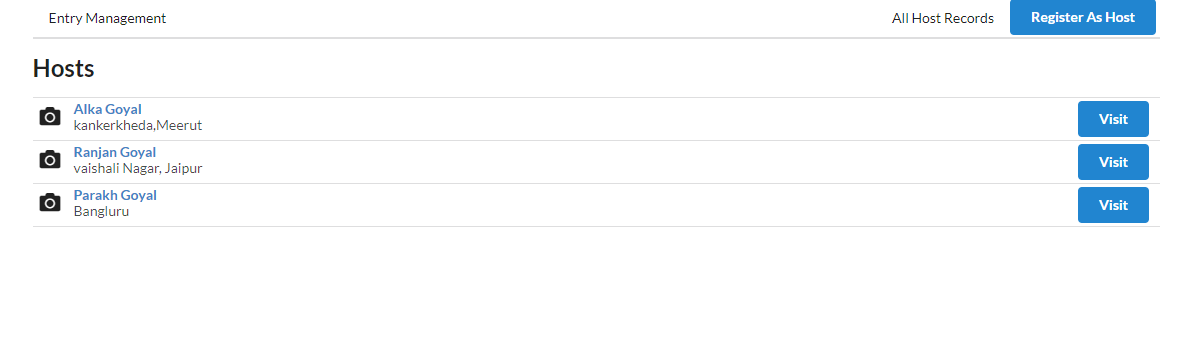
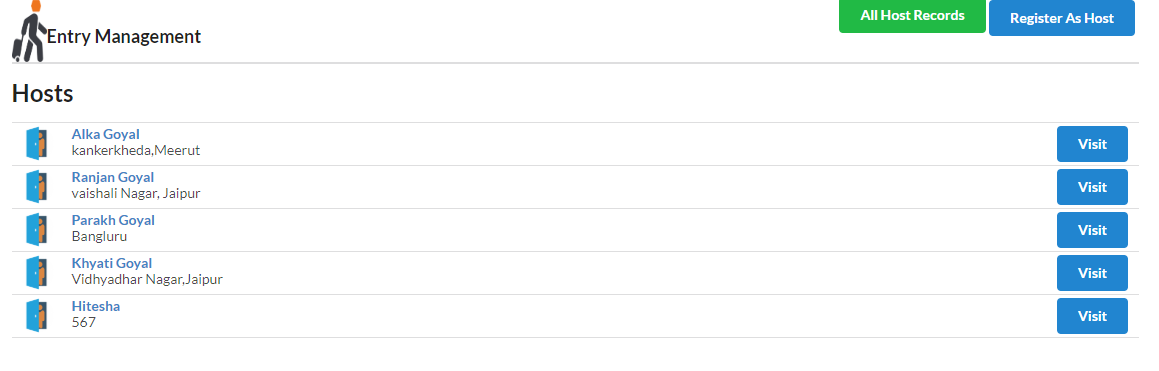
final project

diff --git a/entry-management/client/src/components/streams/VisitorDelete.js b/entry-management/client/src/components/streams/VisitorDelete.js
@@ -2,18 +2,47 @@ import React from 'react';
 import Modal from '../Modal';
 import { connect } from 'react-redux';
 import { Link } from 'react-router-dom';
-import { fetchVisitor, deleteVisitor } from '../../actions';
+import { fetchHost, fetchVisitor } from '../../actions';
 import history from '../../history';
 
 class VisitorDelete extends React.Component {
+  currtime() {
+    const tempTime = new Date();
+    const time = tempTime.getHours() + ':' + tempTime.getMinutes();
+    const currTime = time;
+    return currTime;
+  }
+  onSubmit = () => {
+    const templateId = 'visitor_s_email';
+
+    this.sendFeedback(templateId, {
+      name: this.props.host.name,
+      address: this.props.host.address,
+      emailid: this.props.host.emailid,
+      contact: this.props.host.contact,
+      checkouttime: this.currtime(),
+      to_mail: 'khyatigoyal@rediffmail.com'
+    });
+    history.push('/');
+  };
+  sendFeedback(templateId, variables) {
+    window.emailjs
+      .send('gmail', templateId, variables, 'user_lfSQio4IBYlIANJ1SqnKh')
+      .then(res => {
+        console.log('Email successfully sent! to visitor', res);
+      })
+      .catch(err =>
+        console.error(
+          'Oh well, you failed. Here some thoughts on the error that occured:',
+          err
+        )
+      );
+  }
+
   renderActions() {
-    const { id } = this.props.match.params;
     return (
       <React.Fragment>
-        <button
-          onClick={() => this.props.deleteVisitor(id)}
-          className='ui primary button negative'
-        >
+        <button onClick={this.onSubmit} className='ui primary button negative'>
           Checkout
         </button>
         <Link to={'/'} className='ui button'>
@@ -24,7 +53,7 @@ class VisitorDelete extends React.Component {
   }
 
   renderTitle() {
-    if (!this.props.visitor) {
+    if (!this.props.host) {
       return 'Visitor checked out';
     }
 
@@ -32,7 +61,7 @@ class VisitorDelete extends React.Component {
       <div>
         <span style={{ color: 'red' }}>Check Out </span>
         {'from  '}
-        {this.props.visitor.name}
+        {this.props.host.name}
         {' Appartment'}
       </div>
     );
@@ -52,11 +81,11 @@ class VisitorDelete extends React.Component {
 
 const mapStateToProps = (state, ownProps) => {
   return {
-    visitor: state.hosts[ownProps.match.params.id]
+    host: state.hosts[ownProps.match.params.id]
   };
 };
 
 export default connect(mapStateToProps, {
-  fetchVisitor,
-  deleteVisitor
+  fetchHost,
+  fetchVisitor
 })(VisitorDelete);

diff --git a/entry-management/client/src/components/streams/HostForm.js b/entry-management/client/src/components/streams/HostForm.js
@@ -30,36 +30,51 @@ class HostForm extends React.Component {
   render() {
     // console.log(this.props)
     return (
-      <form
-        onSubmit={this.props.handleSubmit(this.onSubmit)}
-        className='ui form error'
-      >
-        <Field
-          name='name'
-          type='text'
-          component={this.renderInput}
-          label='Enter Name'
-        />
-        <Field
-          name='address'
-          type='text'
-          component={this.renderInput}
-          label='Enter Address'
-        />
-        <Field
-          name='emailid'
-          type='email'
-          component={this.renderInput}
-          label='Enter Email-id'
-        />
-        <Field
-          name='contact'
-          type='number'
-          component={this.renderInput}
-          label='Enter ContactNo.'
-        />
-        <button className='ui button primary'>Submit</button>
-      </form>
+      <div className='ui centered raised red card'>
+        <div className='red content'>
+          <h3>Host Details</h3>
+        </div>
+        <div className='ui image'>
+          <img
+            alt='...'
+            src='https://encrypted-tbn0.gstatic.com/images?q=tbn%3AANd9GcRi60WKZSNeha1ezFPX7YIn6WSDuALwBY3QOPUpNRCleaR2SCCA'
+            className='mini ui  image'
+          />
+        </div>
+
+        <div className='description'>
+          <form
+            onSubmit={this.props.handleSubmit(this.onSubmit)}
+            className='ui form error'
+          >
+            <Field
+              name='name'
+              type='text'
+              component={this.renderInput}
+              label='Enter Name'
+            />
+            <Field
+              name='address'
+              type='text'
+              component={this.renderInput}
+              label='Enter Address'
+            />
+            <Field
+              name='emailid'
+              type='email'
+              component={this.renderInput}
+              label='Enter Email-id'
+            />
+            <Field
+              name='contact'
+              type='number'
+              component={this.renderInput}
+              label='Enter ContactNo.'
+            />
+            <button className='ui button primary'>Submit</button>
+          </form>
+        </div>
+      </div>
     );
   }
 }

diff --git a/entry-management/client/src/components/streams/VisitorCreate.js b/entry-management/client/src/components/streams/VisitorCreate.js
@@ -4,6 +4,12 @@ import { visitHost, fetchHost } from '../../actions/index';
 import VisitorForm from './visitorform';
 
 class VisitorCreate extends React.Component {
+  currtime() {
+    const tempTime = new Date();
+    const time = tempTime.getHours() + ':' + tempTime.getMinutes();
+    const currTime = time;
+    return currTime;
+  }
   emailid = () => {
     return this.props.host.emailid;
   };
@@ -16,7 +22,7 @@ class VisitorCreate extends React.Component {
       name: formValues.name,
       emailid: formValues.emailid,
       contact: formValues.contact,
-      intime: formValues.InTime,
+      intime: this.currtime(),
       to_mail: this.emailid()
     });
   };
@@ -24,7 +30,7 @@ class VisitorCreate extends React.Component {
     window.emailjs
       .send('gmail', templateId, variables, 'user_lfSQio4IBYlIANJ1SqnKh')
       .then(res => {
-        console.log('Email successfully sent!', res);
+        console.log('Email successfully sent! to host', res);
       })
       .catch(err =>
         console.error(

diff --git a/entry-management/client/src/components/Header.js b/entry-management/client/src/components/Header.js
@@ -13,12 +13,17 @@ class Header extends React.Component {
   render() {
     return (
       <header className='ui secondary pointing menu'>
-        <Link to='/' className='item'>
+        <img
+          alt='...'
+          src='https://encrypted-tbn0.gstatic.com/images?q=tbn%3AANd9GcQlNscqBgm24lja5h_gqzV1NFrRKkEtX8HnFqIPbOt3Ovq35-FO'
+          className='mini ui image'
+        />
+        <Link to='/' className='ui header'>
           Entry Management
         </Link>
         <div className='right menu'>
-          <Link to='/' className='item'>
-            All Host Records
+          <Link to='/' className='ui header'>
+            <h3 className='ui positive button'>All Host Records</h3>
           </Link>
           {this.renderCreate()}
         </div>

diff --git a/entry-management/client/src/components/streams/HostDetails.js b/entry-management/client/src/components/streams/HostDetails.js
@@ -11,11 +11,23 @@ class HostDetails extends React.Component {
     console.log(this.props);
 
     return (
-      <div>
-        <h2>{name}</h2>
-        <h3>{address}</h3>
-        <p>{emailid}</p>
-        <h5>{contact}</h5>
+      <div className='ui centered raised red card'>
+        <div className='ui image'>
+          <img
+            alt='...'
+            src='https://icon-library.net/images/criteria-icon/criteria-icon-18.jpg'
+            className='mini ui image'
+          />
+        </div>
+        <div className='content'>
+          <h2>{name}</h2>
+
+          <div className='description'>
+            <h3>{address}</h3>
+            <p>{emailid}</p>
+            <h5>{contact}</h5>
+          </div>
+        </div>
       </div>
     );
   }

diff --git a/entry-management/client/src/actions/index.js b/entry-management/client/src/actions/index.js
@@ -5,7 +5,6 @@ import {
   CREATE_HOST,
   FETCH_HOSTS,
   FETCH_HOST,
-  DELETE_VISITOR,
   VISIT_HOST,
   FETCH_VISITOR
 } from './types';
@@ -36,14 +35,8 @@ export const visitHost = (id, formValues) => async dispatch => {
   history.push(`/hosts/${id}/newvisitor/dashboard`);
 };
 
-export const deleteVisitor = id => async dispatch => {
-  await visitors.delete(`/hosts/${id}`);
-  dispatch({ type: DELETE_VISITOR, payload: id });
-  history.push('/');
-};
-
 export const fetchVisitor = id => async dispatch => {
-  const response = await visitors.get(`/hosts/${id}`);
+  const response = await visitors.get(`/visitors/${id}`);
 
   dispatch({ type: FETCH_VISITOR, payload: response.data });
 };

diff --git a/entry-management/client/src/components/streams/visitorform.js b/entry-management/client/src/components/streams/visitorform.js
@@ -33,7 +33,12 @@ class VisitorForm extends React.Component {
     return (
       <div className={className}>
         <label>{label}</label>
-        <input {...input} autoComplete='off' placeholder={this.currtime()} />
+        <input
+          {...input}
+          autoComplete='off'
+          placeholder={this.currtime()}
+          disabled
+        />
         {this.renderError(meta)}
       </div>
     );
@@ -88,9 +93,6 @@ const validate = formValues => {
   }
   if (!formValues.contact) {
     errors.contact = 'Enter a contactNo.';
-  }
-  if (!formValues.InTime) {
-    errors.InTime = 'Input the given time';
   }
   return errors;
 };

diff --git a/entry-management/client/src/reducers/visitorReducer.js b/entry-management/client/src/reducers/visitorReducer.js
@@ -1,5 +1,4 @@
-import _ from 'lodash';
-import { DELETE_VISITOR, VISIT_HOST, FETCH_VISITOR } from '../actions/types';
+import { VISIT_HOST, FETCH_VISITOR } from '../actions/types';
 
 export default (state = {}, action) => {
   switch (action.type) {
@@ -7,8 +6,6 @@ export default (state = {}, action) => {
       return { ...state, [action.payload.id]: action.payload };
     case VISIT_HOST:
       return { ...state, [action.payload.id]: action.payload };
-    case DELETE_VISITOR:
-      return _.omit(state, action.payload);
     default:
       return state;
   }

diff --git a/entry-management/client/src/components/streams/HostsList.js b/entry-management/client/src/components/streams/HostsList.js
@@ -23,7 +23,11 @@ class HostsList extends React.Component {
       return (
         <div className='item' key={host.id}>
           {this.renderAdmin(host)}
-          <i className='large middle aligned icon camera' />
+          <img
+            className='left floated mini ui circular image'
+            alt='Loading...'
+            src='https://cdn1.iconfinder.com/data/icons/corporate-management-9/48/9-512.png'
+          />
           <div className='content'>
             <Link to={`/hosts/${host.id}`} className='header'>
               {host.name}

diff --git a/entry-management/client/src/components/streams/CheckedIn.js b/entry-management/client/src/components/streams/CheckedIn.js
@@ -17,7 +17,7 @@ class CheckedIn extends React.Component {
         </h5>
         <p>
           Do you want to
-          <Link to={`/hosts/${id}/newvisitor/in/checkout`}> Checkout </Link>
+          <Link to={`/hosts/${id}/newvisitor/checkout`}> Checkout </Link>
           from {name} appartment!!!
         </p>
         <div className='right floated content'>

diff --git a/entry-management/client/src/actions/types.js b/entry-management/client/src/actions/types.js
@@ -1,6 +1,5 @@
 export const CREATE_HOST = 'CREATE_HOST';
 export const FETCH_HOSTS = 'FETCH_HOSTS';
 export const FETCH_HOST = 'FETCH_HOST';
-export const DELETE_VISITOR = 'DELETE_VISITOR';
 export const VISIT_HOST = 'VISIT_HOST';
 export const FETCH_VISITOR = 'FETCH_VISITOR';

diff --git a/entry-management/client/src/components/streams/HostCreate.js b/entry-management/client/src/components/streams/HostCreate.js
@@ -11,7 +11,6 @@ class HostCreate extends React.Component {
   render() {
     return (
       <div>
-        <h3>Host Details</h3>
         <HostForm onSubmit={this.onSubmit} />
       </div>
     );
